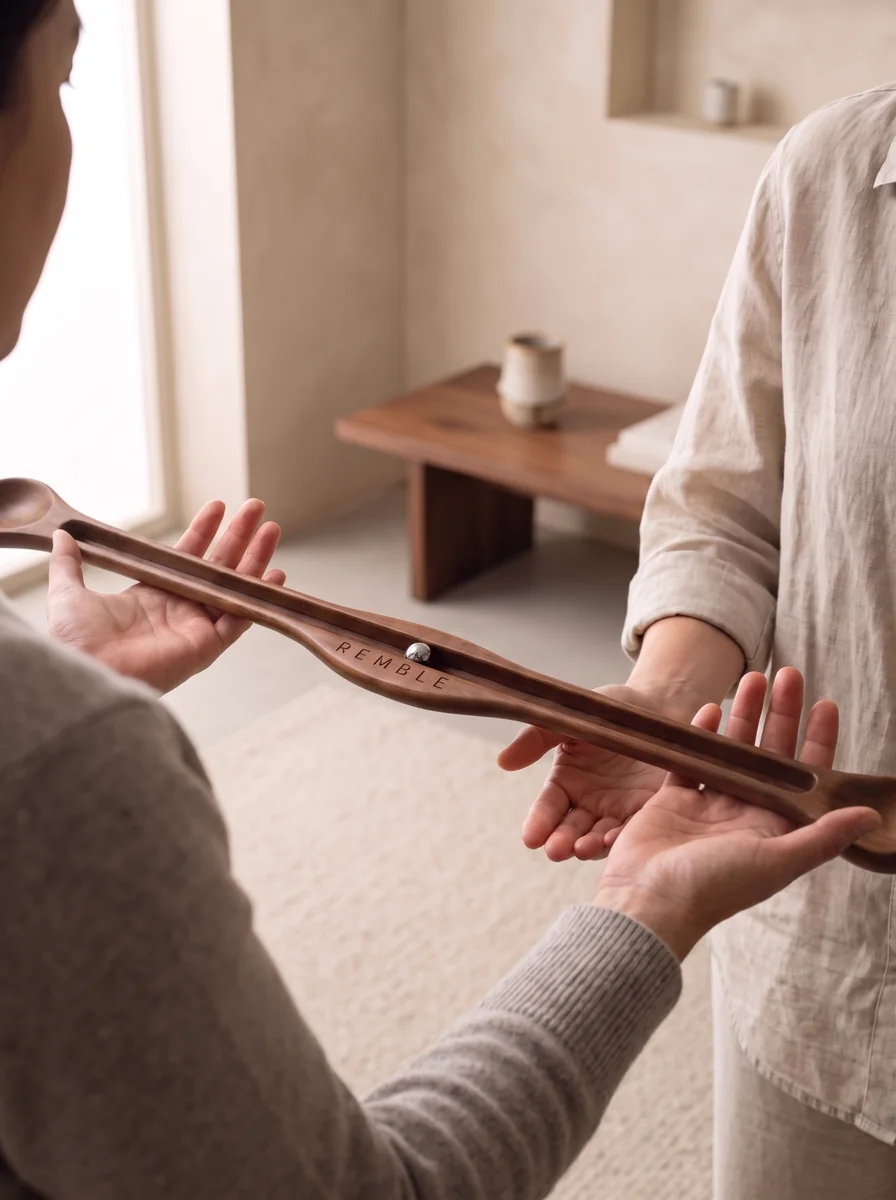
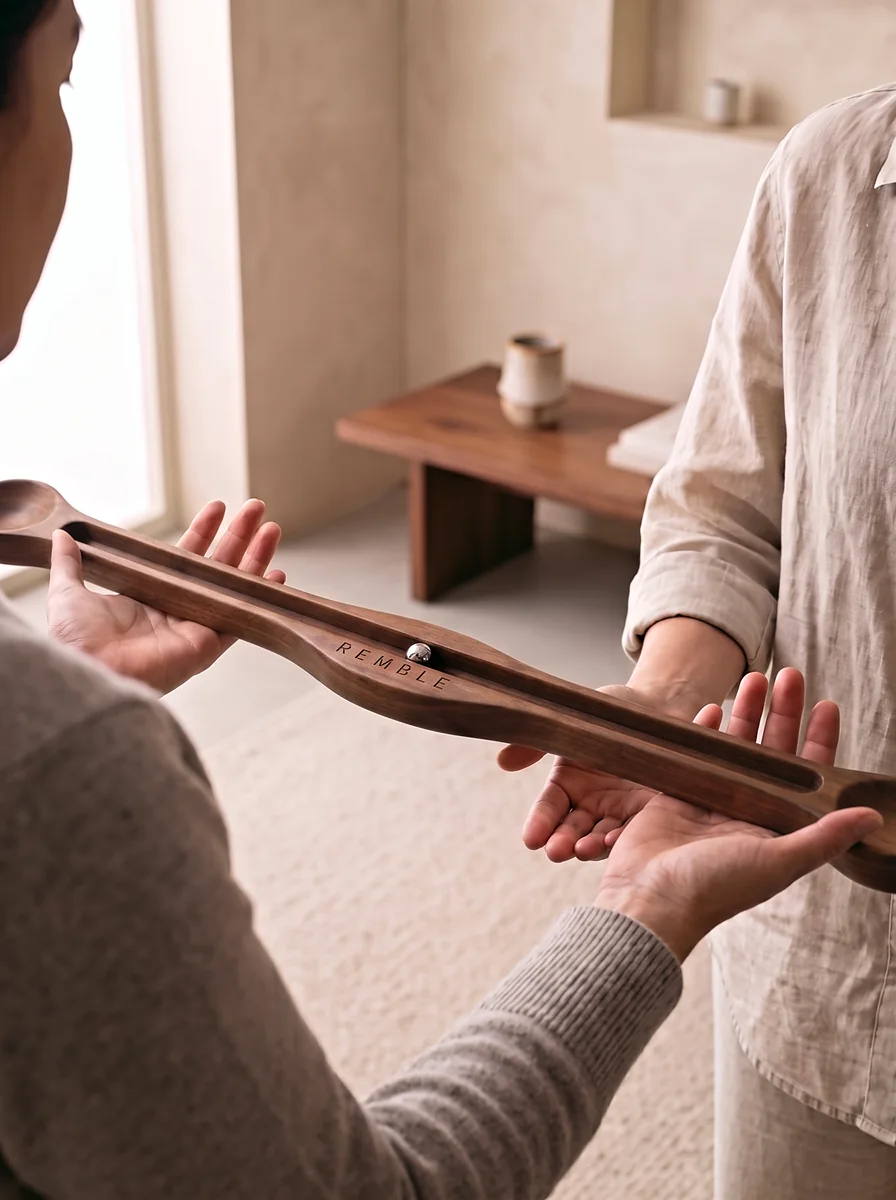
Revize 2 — dört görsel yenilendi: kutu logosu büyütüldü, enstrüman kalınlaştırıldı (kılıf + bağlantı), zanaat karesi değişti, ton düzeltmesi

diff --git a/index.html b/index.html
@@ -129,7 +129,7 @@
 
   <div class="axis axis--reverse shell">
     <div class="axis-media reveal">
-      <img src="assets/img/baglanti-simetrik.webp" alt="Uzman ve danışan Remble’ı birlikte tutuyor" width="896" height="1200" loading="lazy">
+      <img src="assets/img/baglanti-simetrik.webp?v=3" alt="Uzman ve danışan Remble’ı birlikte tutuyor" width="896" height="1200" loading="lazy">
     </div>
     <div class="axis-text reveal">
       <span class="axis-num">02</span>
@@ -177,7 +177,7 @@
       <figcaption>Doku — Ayous · Tek parça ahşap</figcaption>
     </figure>
     <figure class="craft-figure reveal">
-      <img src="assets/img/zanaat-uzun-form.webp" alt="Remble duvara yaslı, 80 cm’lik uzun formu ikindi ışığında" width="821" height="1100" loading="lazy">
+      <img src="assets/img/zanaat-uzun-form.webp?v=2" alt="Remble’ın kanalındaki çelik bilye, ince bir ışık huzmesinde yakın plan" width="821" height="1100" loading="lazy">
       <figcaption>Ağırlık ve denge — Hafif · Dengeli form</figcaption>
     </figure>
   </div>
@@ -197,13 +197,13 @@
 
   <div class="shell box-grid">
     <figure class="box-fig box-fig--wide reveal">
-      <img src="assets/img/kutu-acik-bilye-yuvali.webp" alt="Açık Remble kutusu — kadife yatakta Remble ve iki yedek çelik bilye" width="1700" height="1275" loading="lazy">
+      <img src="assets/img/kutu-acik-bilye-yuvali.webp?v=2" alt="Açık Remble kutusu — kadife yatakta Remble ve iki yedek çelik bilye" width="1700" height="1275" loading="lazy">
     </figure>
     <figure class="box-fig reveal">
       <img src="assets/img/box-logo.webp" alt="Kutu kapağındaki gömme logo, yandan gelen ışıkta" width="1100" height="821" loading="lazy">
     </figure>
     <figure class="box-fig reveal">
-      <img src="assets/img/kutu-kilif-uzun-form.webp" alt="Remble ve keten saklama kılıfı, ceviz konsol üzerinde ikindi ışığında" width="1100" height="825" loading="lazy">
+      <img src="assets/img/kutu-kilif-uzun-form.webp?v=3" alt="Remble ve keten saklama kılıfı, ceviz konsol üzerinde ikindi ışığında" width="1100" height="825" loading="lazy">
     </figure>
   </div>
 
